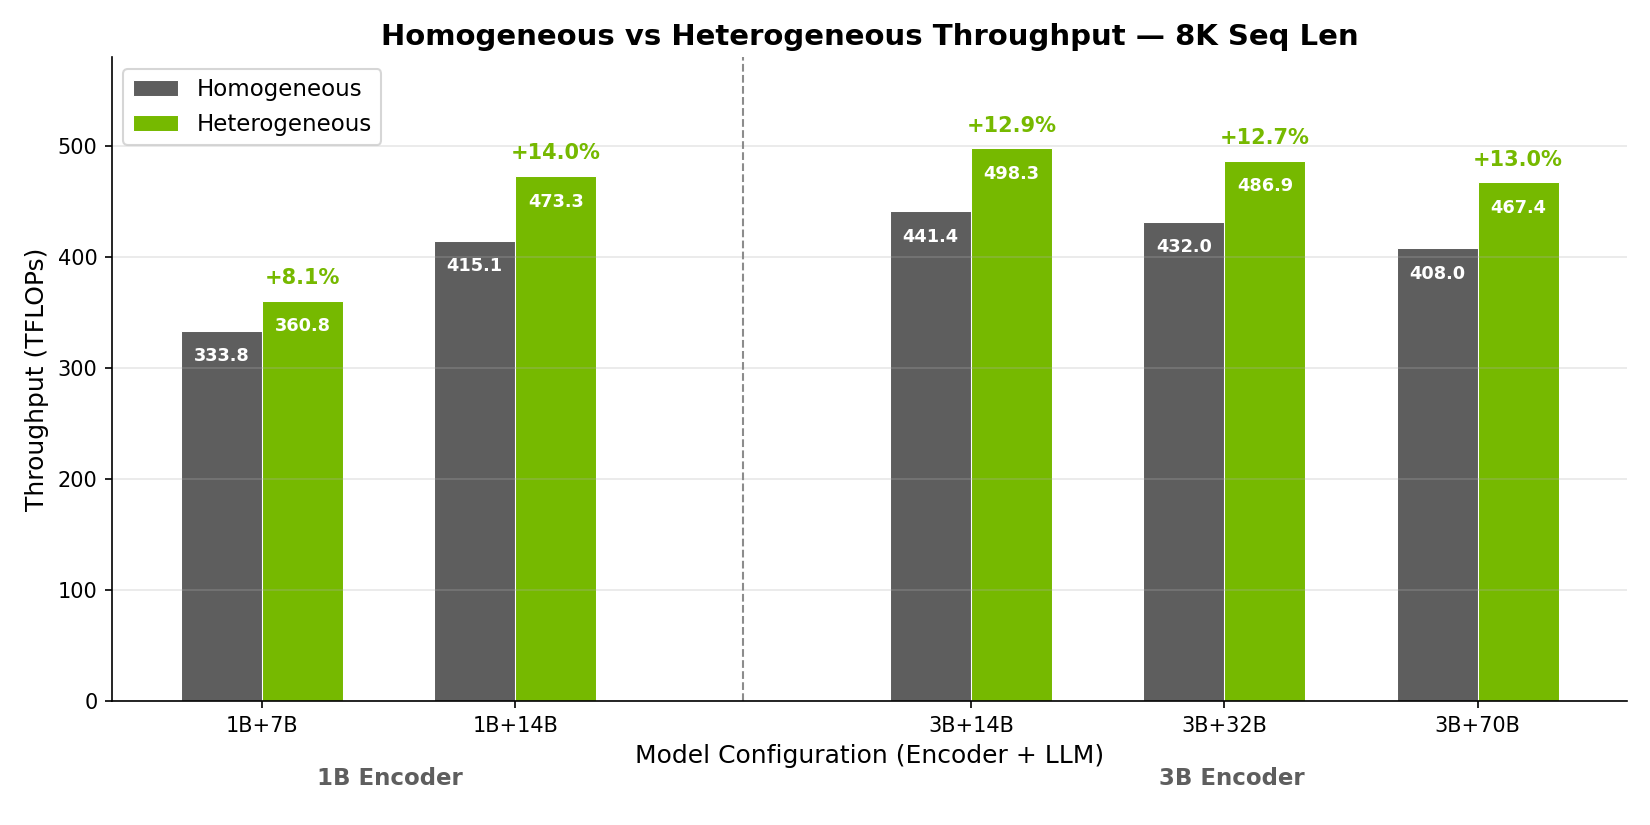
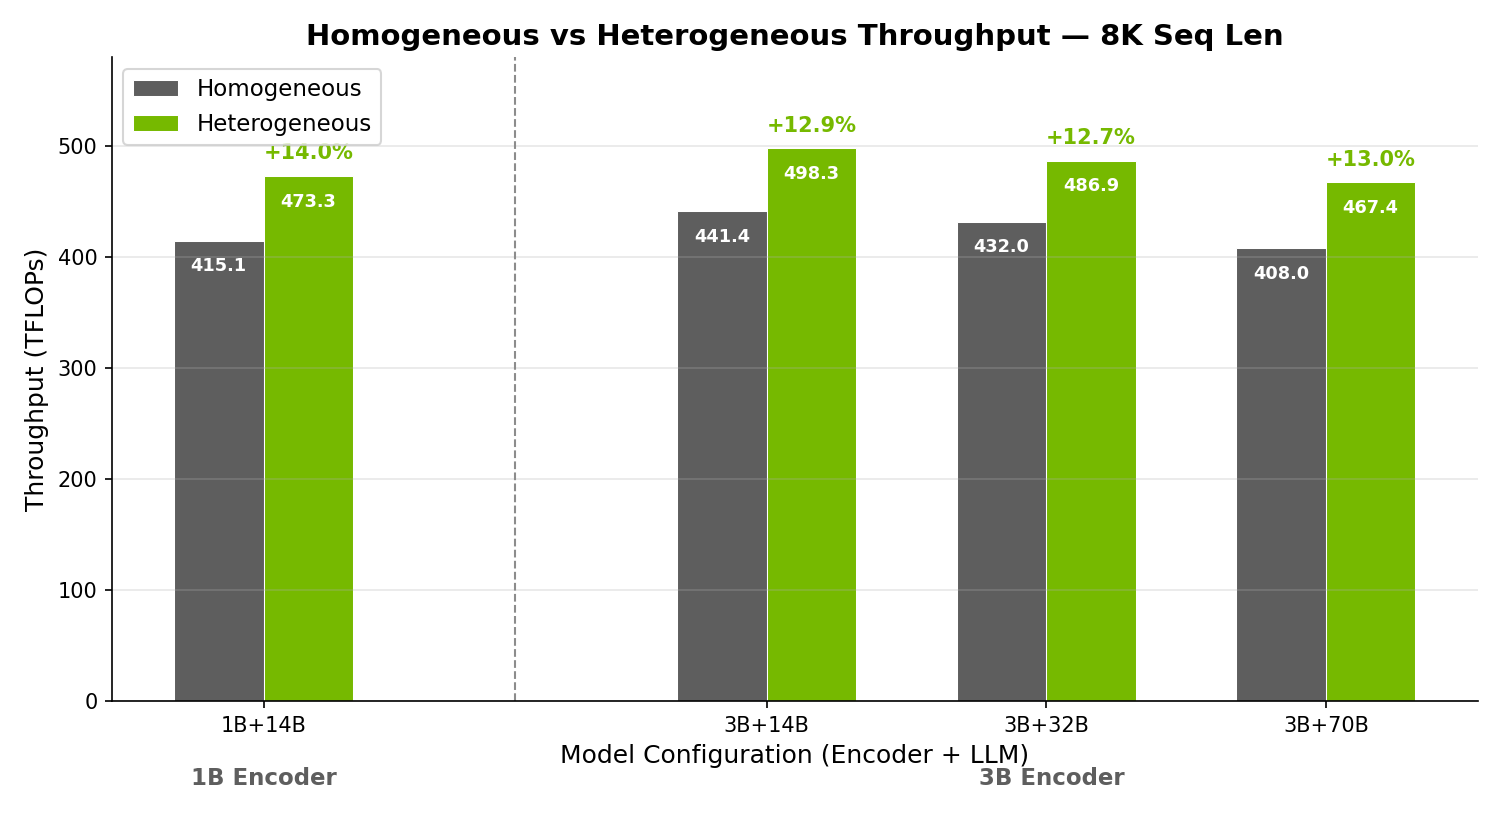
docs: address review feedback on agentic heterogeneous parallelism article
- Drop the 1B+7B 8K row from Table 1 and regenerate Figure 1 to match.
  The remaining four rows (1B+14B, 3B+14B, 3B+32B, 3B+70B) are all at
  64 GPUs with LLM PP=2; the gain range tightens to +12.7% to +14.0%.
  Update the Standard sequence length prose and Table 1 caption
  accordingly. Removes the only "—" entry (1B+7B iter time was not
  captured in the source data).
- Remove the Resources section and its Table of Contents entry.
- Remove the trailing "follow-up change" promise about sanitized agent
  role definitions; nothing in this PR commits to it, so the line was
  load-bearing rot.

diff --git a/docs/discussions/agentic-heterogeneous-parallelism/agentic-heterogeneous-parallelism.md b/docs/discussions/agentic-heterogeneous-parallelism/agentic-heterogeneous-parallelism.md
@@ -12,7 +12,6 @@ This article documents an agent-driven exploration of heterogeneous TP/DP/PP for
 - [Failure Modes and Human Verification](#failure-modes-and-human-verification)
 - [The Operating Model](#the-operating-model)
 - [Adapting This for Other Workloads](#adapting-this-for-other-workloads)
-- [Resources](#resources)
 
 ## The Problem
 
@@ -80,7 +79,7 @@ All measurements are H100 (BF16). World sizes range from 16 to 64 GPUs (2 to 8 n
 
 ### Standard sequence length (8K)
 
-Across five encoder–LLM pairs at 8K, heterogeneous parallelism gives +8.1% to +14.0% TFLOPs/GPU over the strongest homogeneous baseline. The gain holds across encoder size (1B, 3B) and LLM size (7B through 70B).
+Across four encoder–LLM pairs at 8K (all at 64 GPUs), heterogeneous parallelism gives +12.7% to +14.0% TFLOPs/GPU over the strongest homogeneous baseline. The gain holds across encoder size (1B, 3B) and LLM size (14B through 70B).
 
 <img src="./images/throughput_8k.png" alt="Heterogeneous vs homogeneous throughput at 8K sequence length, 1B and 3B encoders" width="700">
 
@@ -88,13 +87,12 @@ Figure 1. TFLOPs/GPU at 8K sequence length on H100 (BF16). Each heterogeneous ru
 
 | Encoder | LLM   | World | GBS | Homo TP/DP/PP | Hetero Enc TP/DP/PP | Hetero LLM TP/DP/PP | Homo TFLOPs/GPU | Hetero TFLOPs/GPU |    Δ    | Mem Homo (GB) | Mem Hetero (GB) | Iter Homo (ms) | Iter Hetero (ms) |
 | ------- | ----- | ----: | --: | ------------- | ------------------- | ------------------- | --------------: | ----------------: | ------: | ------------: | --------------: | -------------: | ---------------: |
-| 1B      | 7B    |    16 |  64 | 4/4/1         | 1/16/1              | 4/4/1               |           333.8 |             360.8 |  +8.1%  |          66.3 |            62.2 |              — |                — |
 | 1B      | 14B   |    64 | 256 | 4/16/1        | 1/64/1              | 2/16/2              |           415.1 |             473.3 | +14.0%  |          57.6 |            58.2 |           7746 |             6785 |
 | 3B      | 14B   |    64 | 256 | 4/16/1        | 1/64/1              | 2/16/2              |           441.4 |             498.3 | +12.9%  |          60.1 |            58.3 |           8083 |             7169 |
 | 3B      | 32B   |    64 | 128 | 4/16/1        | 1/64/1              | 4/8/2               |           432.0 |             486.9 | +12.7%  |          69.4 |            55.9 |          14385 |            12787 |
 | 3B      | 70B   |    64 | 128 | 8/4/1         | 1/64/1              | 8/4/2               |           408.0 |             467.4 | +13.0%  |          56.3 |            62.9 |          16573 |            14074 |
 
-Table 1. 8K results. Heterogeneous configurations all run encoder TP=1; rows with LLM PP=2 also use encoder parameter offload during the LLM pipeline phase. Vision token fractions per row: 90% / 90% / 88% / 75% / 75%. Iter time is per-microbatch forward+backward in milliseconds; the 1B+7B 8K iter time was not captured in the source data.
+Table 1. 8K results. Heterogeneous configurations all run encoder TP=1 with encoder parameter offload during the LLM pipeline phase (all four rows have LLM PP=2). Vision token fractions per row: 90% / 88% / 75% / 75%. Iter time is per-microbatch forward+backward in milliseconds.
 
 ### Long context with context parallelism
 
@@ -146,10 +144,3 @@ The reusable patterns:
 - **The team lead is a skeptic.** Validate same-GBS, same-precision, same-optimization-stack equivalence before any result is logged as a finding. Without this role, the team produces propagating bias.
 - **Stop course-correcting; restart.** When an agent goes down a wrong path — flawed assumptions, compounding errors, biased baselines — terminate the session and start fresh. Mid-conversation course correction rarely recovers.
 - **Confirmed, disproven, hypothesis.** The `learnings.md` schema with three sections (confirmed / disproven / hypothesis) makes the knowledge base auditable. A "confirmed" rule that produces a counterexample gets demoted to "depends on configuration" rather than silently failing.
-
-Sanitized agent role definitions for adaptation to other workloads will be added in a follow-up change.
-
-## Resources
-
-1. [Megatron-LM](https://github.com/NVIDIA/Megatron-LM)
-2. [Claude Code](https://www.anthropic.com/claude-code)
